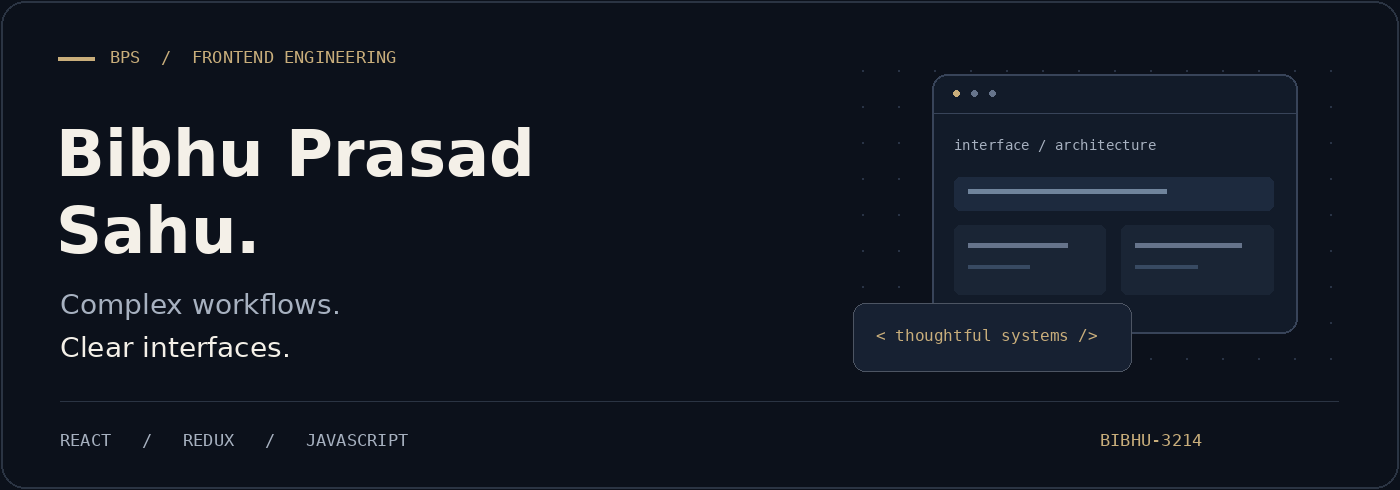
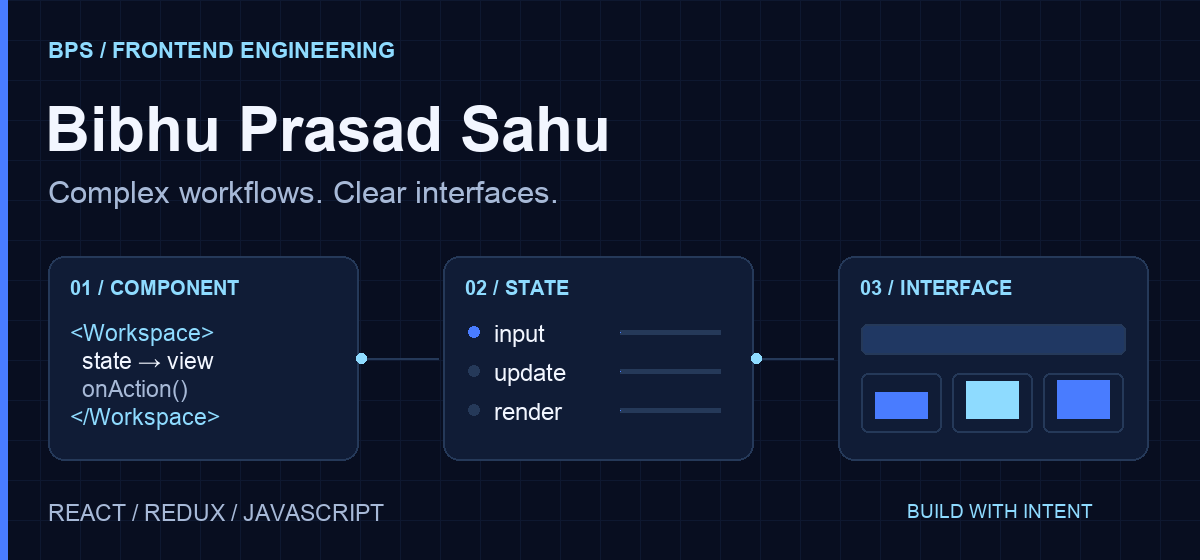
Refresh profile with cobalt motion scenes and featured projects

diff --git a/render_banner.py b/render_banner.py
@@ -1,66 +1,82 @@
+"""Original geometric motion system. Run with Python 3 + Pillow >= 10.
+No external images/fonts downloaded. GIFs play once (6s); PNG fallbacks included.
+"""
 from PIL import Image, ImageDraw, ImageFont
 from pathlib import Path
-import math
-
+import math, os
 ROOT = Path(__file__).parent
-W, H = 1400, 490
-BG = '#0C111B'
-GOLD = '#C9AE7B'
-IVORY = '#F4F0E8'
-MUTED = '#A7B1C0'
-def font(size, bold=False, mono=False):
-    family = 'DejaVuSansMono' if mono else 'DejaVuSans'
-    return ImageFont.truetype('/usr/share/fonts/truetype/dejavu/'+family+('-Bold' if bold else '')+'.ttf', size)
-base = Image.new('RGB',(W,H),BG)
-d = ImageDraw.Draw(base)
-d.rounded_rectangle((1,1,W-2,H-2),radius=24,outline='#2B3443',width=2)
-d.rectangle((58,57,94,60),fill=GOLD)
-d.text((110,47),'BPS  /  FRONTEND ENGINEERING',font=font(17,mono=True),fill=GOLD)
-d.text((56,116),'Bibhu Prasad',font=font(64,True),fill=IVORY)
-d.text((56,193),'Sahu.',font=font(64,True),fill=IVORY)
-d.text((60,288),'Complex workflows.',font=font(28),fill=MUTED)
-d.text((60,331),'Clear interfaces.',font=font(28),fill=IVORY)
-d.line((60,401,1338,401),fill='#2B3443',width=1)
-d.text((60,430),'REACT   /   REDUX   /   JAVASCRIPT',font=font(17,mono=True),fill=MUTED)
-d.text((1100,430),'BIBHU-3214',font=font(17,mono=True),fill=GOLD)
-# An abstract interface composition, not a product screenshot.
-for x in range(862,1340,36):
-    for y in range(70,370,36):
-        d.ellipse((x,y,x+1,y+1),fill='#293345')
-d.rounded_rectangle((932,74,1297,333),radius=15,fill='#121B29',outline='#384459',width=2)
-d.line((932,113,1297,113),fill='#384459',width=1)
-for x,c in [(953,'#C9AE7B'),(971,'#66748B'),(989,'#66748B')]:
-    d.ellipse((x,90,x+6,96),fill=c)
-d.text((954,137),'interface / architecture',font=font(14,mono=True),fill=MUTED)
-d.rounded_rectangle((954,177,1273,210),radius=6,fill='#1D2A3E')
-d.rectangle((968,189,1166,193),fill='#70849C')
-d.rounded_rectangle((954,225,1105,294),radius=6,fill='#1A2535')
-d.rounded_rectangle((1121,225,1273,294),radius=6,fill='#1A2535')
-d.rectangle((968,243,1067,247),fill='#66748B')
-d.rectangle((1135,243,1241,247),fill='#66748B')
-d.rectangle((968,265,1029,268),fill='#384A62')
-d.rectangle((1135,265,1197,268),fill='#384A62')
-d.rounded_rectangle((853,303,1131,371),radius=12,fill='#172132',outline='#4D5563',width=1)
-d.text((876,326),'< thoughtful systems />',font=font(16,mono=True),fill=GOLD)
-base.save(ROOT/'assets/profile-banner.png')
-frames=[]
-for i in range(48):
-    frame=base.copy(); draw=ImageDraw.Draw(frame)
-    # Slow, understated progress along the top window edge; typography never moves.
-    x=949 + int(330*i/47)
-    draw.line((949,115,x,115),fill=GOLD,width=2)
-    draw.ellipse((x-3,112,x+3,118),fill=IVORY)
-    frames.append(frame)
-frames[0].save(ROOT/'assets/profile-banner.gif',save_all=True,append_images=frames[1:],duration=[90]*47+[1100],loop=0,optimize=True,disposal=1)
-print('Banner rendered:', (ROOT/'assets/profile-banner.gif').stat().st_size, 'bytes; 48 frames')
-for number,title,subtitle,name in [
-    ('01','Bill Management','CUSTOMERS  /  PRODUCTS  /  BILLING','project-billing.png'),
-    ('02','Identity & Notes','AUTHENTICATION  /  PERSONAL WORKSPACE','project-notes.png')]:
-    card=Image.new('RGB',(700,215),BG); cd=ImageDraw.Draw(card)
-    cd.rounded_rectangle((1,1,698,213),radius=16,outline='#2B3443',width=2)
-    cd.text((32,26),'SELECTED WORK  /  '+number,font=font(15,mono=True),fill=GOLD)
-    cd.text((29,76),title,font=font(37,True),fill=IVORY)
-    cd.text((32,157),subtitle,font=font(13,mono=True),fill=MUTED)
-    cd.line((32,194,668,194),fill='#2B3443',width=1)
-    cd.line((32,194,104,194),fill=GOLD,width=2)
-    card.save(ROOT/'assets'/name)
+W,H=1200,560
+BG='#080e20'; PANEL='#101c36'; LINE='#253959'; BLUE='#497cff'; CYAN='#8edbff'; WHITE='#f2f6ff'; MUTED='#a7b9d7'
+def font(n,bold=False):
+    candidates=[os.environ.get('PROFILE_FONT_BOLD' if bold else 'PROFILE_FONT',''), '/System/Library/Fonts/Supplemental/Arial'+(' Bold' if bold else '')+'.ttf','/usr/share/fonts/truetype/dejavu/DejaVuSans'+('-Bold' if bold else '')+'.ttf']
+    for p in candidates:
+        if p and Path(p).exists(): return ImageFont.truetype(p,n)
+    raise RuntimeError('Set PROFILE_FONT and PROFILE_FONT_BOLD to local TTF fonts')
+def txt(d,xy,s,n=24,c=WHITE,b=False): d.text(xy,s,font=font(n,b),fill=c)
+def box(d,xy,fill=PANEL,outline=LINE,r=16): d.rounded_rectangle(xy,r,fill=fill,outline=outline,width=2)
+def base(h=H):
+    im=Image.new('RGB',(W,h),BG); d=ImageDraw.Draw(im)
+    for x in range(0,W,40): d.line((x,0,x,h),fill='#0e1830')
+    for y in range(0,h,40): d.line((0,y,W,y),fill='#0e1830')
+    d.rectangle((0,0,7,h),fill=BLUE)
+    return im,d
+def hero(t):
+    im,d=base(); txt(d,(48,38),'BPS / FRONTEND ENGINEERING',22,CYAN,True)
+    txt(d,(45,94),'Bibhu Prasad Sahu',62,WHITE,True)
+    txt(d,(48,174),'Complex workflows. Clear interfaces.',31,MUTED)
+    # A code-to-state-to-interface scene; labels stay fixed and readable.
+    for x,label in [(48,'01 / COMPONENT'),(443,'02 / STATE'),(838,'03 / INTERFACE')]:
+        box(d,(x,256,x+310,460)); txt(d,(x+22,276),label,20,CYAN,True)
+    for k,(s,c) in enumerate([('<Workspace>',CYAN),('  state → view',WHITE),('  onAction()',MUTED),('</Workspace>',CYAN)]): txt(d,(70,320+k*28),s,23,c)
+    for k,s in enumerate(['input','update','render']):
+        y=326+k*39; d.ellipse((468,y,479,y+11),fill=BLUE if t>=k*.24 else LINE); txt(d,(494,y-6),s,24)
+        d.line((620,y+6,720,y+6),fill=LINE,width=5)
+        d.line((620,y+6,620+int(100*min(1,max(0,(t-k*.2)*2))),y+6),fill=BLUE,width=5)
+    box(d,(861,324,1125,354),fill='#203863',r=6)
+    for k in range(3):
+        x=861+k*91; box(d,(x,373,x+80,432),r=7)
+        hh=int(12+28*(.5+.5*math.sin(t*math.pi*2+k)))
+        d.rectangle((x+14,418-hh,x+66,418),fill=BLUE if k!=1 else CYAN)
+    for start in [361,756]:
+        d.line((start,358,start+77,358),fill=LINE,width=2)
+        x=start+int(77*t); d.ellipse((x-5,353,x+5,363),fill=CYAN)
+    txt(d,(48,500),'REACT / REDUX / JAVASCRIPT',23,MUTED)
+    txt(d,(907,500),'BUILD WITH INTENT',19,CYAN)
+    return im
+
+def project(t,forma=False):
+    im,d=base(400); title='Forma' if forma else 'BillFlow'
+    txt(d,(46,30),'02 / SELECTED WORK' if forma else '01 / SELECTED WORK',21,CYAN,True)
+    txt(d,(43,76),title,62,WHITE,True)
+    txt(d,(46,157),'Recruitment workspace' if forma else 'Billing workspace',28,MUTED)
+    txt(d,(46,216),'React + TypeScript' if forma else 'React + Redux',24,WHITE)
+    txt(d,(46,324),'FRONTEND DEMO / LOCAL DATA',20,CYAN)
+    box(d,(550,35,1150,362))
+    txt(d,(578,58),'CANDIDATE JOURNEY' if forma else 'CUSTOMER → INVOICE',22,CYAN,True)
+    labels=['Intake','Review','Shortlist'] if forma else ['Customer','Items','Invoice']
+    for k,label in enumerate(labels):
+        x=580+k*184
+        box(d,(x,113,x+158,270),fill='#172744',r=12)
+        txt(d,(x+15,132),label,22,WHITE,True)
+        if forma:
+            d.ellipse((x+53,179,x+89,215),fill=BLUE)
+            d.rounded_rectangle((x+36,223,x+107,239),8,fill='#355480')
+        else:
+            for j in range(3): d.rounded_rectangle((x+18,183+j*22,x+130-j*16,190+j*22),3,fill=BLUE if j==0 else '#355480')
+    d.line((598,308,1102,308),fill=LINE,width=3)
+    x=598+int(504*t); d.line((598,308,x,308),fill=BLUE,width=3); d.ellipse((x-7,301,x+7,315),fill=CYAN)
+    txt(d,(578,331),'ILLUSTRATIVE WORKFLOW',16,MUTED)
+    return im
+
+def save(name,fn):
+    frames=[fn(i/59) for i in range(60)]
+    frames[0].save(ROOT/'assets'/f'{name}.png')
+    # Fixed palette eliminates frame-to-frame color shimmer; delta frames reduce size.
+    palette=frames[0].quantize(colors=96)
+    frames=[f.quantize(palette=palette,dither=Image.Dither.NONE) for f in frames]
+    frames[0].save(ROOT/'assets'/f'{name}.gif',save_all=True,append_images=frames[1:],duration=100,optimize=True,disposal=1)
+    print(name,(ROOT/'assets'/f'{name}.gif').stat().st_size)
+if __name__=='__main__':
+    save('profile-banner',hero)
+    save('project-billing',project)
+    save('project-forma',lambda t:project(t,True))

diff --git a/README.md b/README.md
@@ -11,7 +11,7 @@
   <a href="https://x.com/bibhuprasaddd">X</a>
 </p>
 
-<br />
+<p align="center"><sub>Motion plays once. <a href="./assets/profile-banner.png">View the still banner</a>.</sub></p>
 
 ### Software engineer. Frontend focus.
 
@@ -25,26 +25,45 @@ I’m interested in the decisions behind a useful interface: how components fit 
 
 Personal projects exploring practical application workflows. Each repository contains its implementation and setup details.
 
-<table>
-<tr>
-<td width="50%" valign="top">
-<a href="https://github.com/bibhu-3214/Bill-Management-App"><img src="./assets/project-billing.png" alt="Selected work 01 — Bill Management" width="100%" /></a>
-<p>Customer, product and billing workflows in a browser-based React application.</p>
-<p><strong>Explore:</strong> connected CRUD flows, form validation, Redux state and browser-local persistence.</p>
-<p><code>React</code> <code>Redux</code> <code>Material UI</code> <code>Formik</code></p>
-<p><a href="https://github.com/bibhu-3214/Bill-Management-App"><strong>Read the code ↗</strong></a></p>
-<sub>Frontend-only personal project; not a production financial service.</sub>
-</td>
-<td width="50%" valign="top">
-<a href="https://github.com/bibhu-3214/user-authentication-react-redux"><img src="./assets/project-notes.png" alt="Selected work 02 — Identity and Notes" width="100%" /></a>
-<p>Registration, sign-in and account details connected to a personal notes workflow.</p>
-<p><strong>Explore:</strong> authenticated navigation, API interactions, validation and note management.</p>
-<p><code>React</code> <code>Redux</code> <code>React Router</code> <code>Axios</code></p>
-<p><a href="https://github.com/bibhu-3214/user-authentication-react-redux"><strong>Read the code ↗</strong></a></p>
-<sub>Personal application project; see the repository for its scope.</sub>
-</td>
-</tr>
-</table>
+### 01 / BillFlow
+
+<a href="https://github.com/bibhu-3214/Bill-Management-App">
+<picture>
+  <source media="(prefers-reduced-motion: reduce)" srcset="./assets/project-billing.png" />
+  <img src="./assets/project-billing.gif" alt="BillFlow — illustrated customer-to-items-to-invoice workflow in a dark cobalt workspace." width="100%" />
+</picture>
+</a>
+
+A **React and Redux billing workspace** connecting customers, products, invoice drafts, quotations and collections. I’m exploring form validation, explicit state transitions and connected workflows with encrypted browser-local persistence.
+
+**[Read the code ↗](https://github.com/bibhu-3214/Bill-Management-App)**
+
+<sub>Frontend-only personal demo; not a production financial service. The PDF upgrade remains work in progress in a draft PR.</sub>
+
+### 02 / Forma
+
+<a href="https://userjobapp.netlify.app/">
+<picture>
+  <source media="(prefers-reduced-motion: reduce)" srcset="./assets/project-forma.png" />
+  <img src="./assets/project-forma.gif" alt="Forma — illustrated candidate journey from intake through review to shortlist. Fictional-data recruitment demo." width="100%" />
+</picture>
+</a>
+
+A **React and TypeScript recruitment demo** with candidate intake, search and filtering, and shortlist, reject and reopen workflows. Dark mode and an animated candidate journey bring the workspace together.
+
+**[Explore the live demo ↗](https://userjobapp.netlify.app/)** &nbsp; · &nbsp; **[Read the code ↗](https://github.com/bibhu-3214/Job-App-for-user)**
+
+<sub>Synthetic candidates and browser-local persistence. No backend, employer delivery or production recruitment service. The artwork above illustrates the workflow rather than reproducing an app screenshot.</sub>
+
+<details>
+<summary><strong>Also built: Identity & Notes</strong></summary>
+
+Registration, sign-in and account details connected to a personal notes workflow. Explore authenticated navigation, API interactions, validation and note management with React, Redux, React Router and Axios.
+
+[Read the code ↗](https://github.com/bibhu-3214/user-authentication-react-redux)
+
+</details>
+
 
 <p align="right"><a href="https://github.com/bibhu-3214?tab=repositories">Browse all repositories →</a></p>
 
